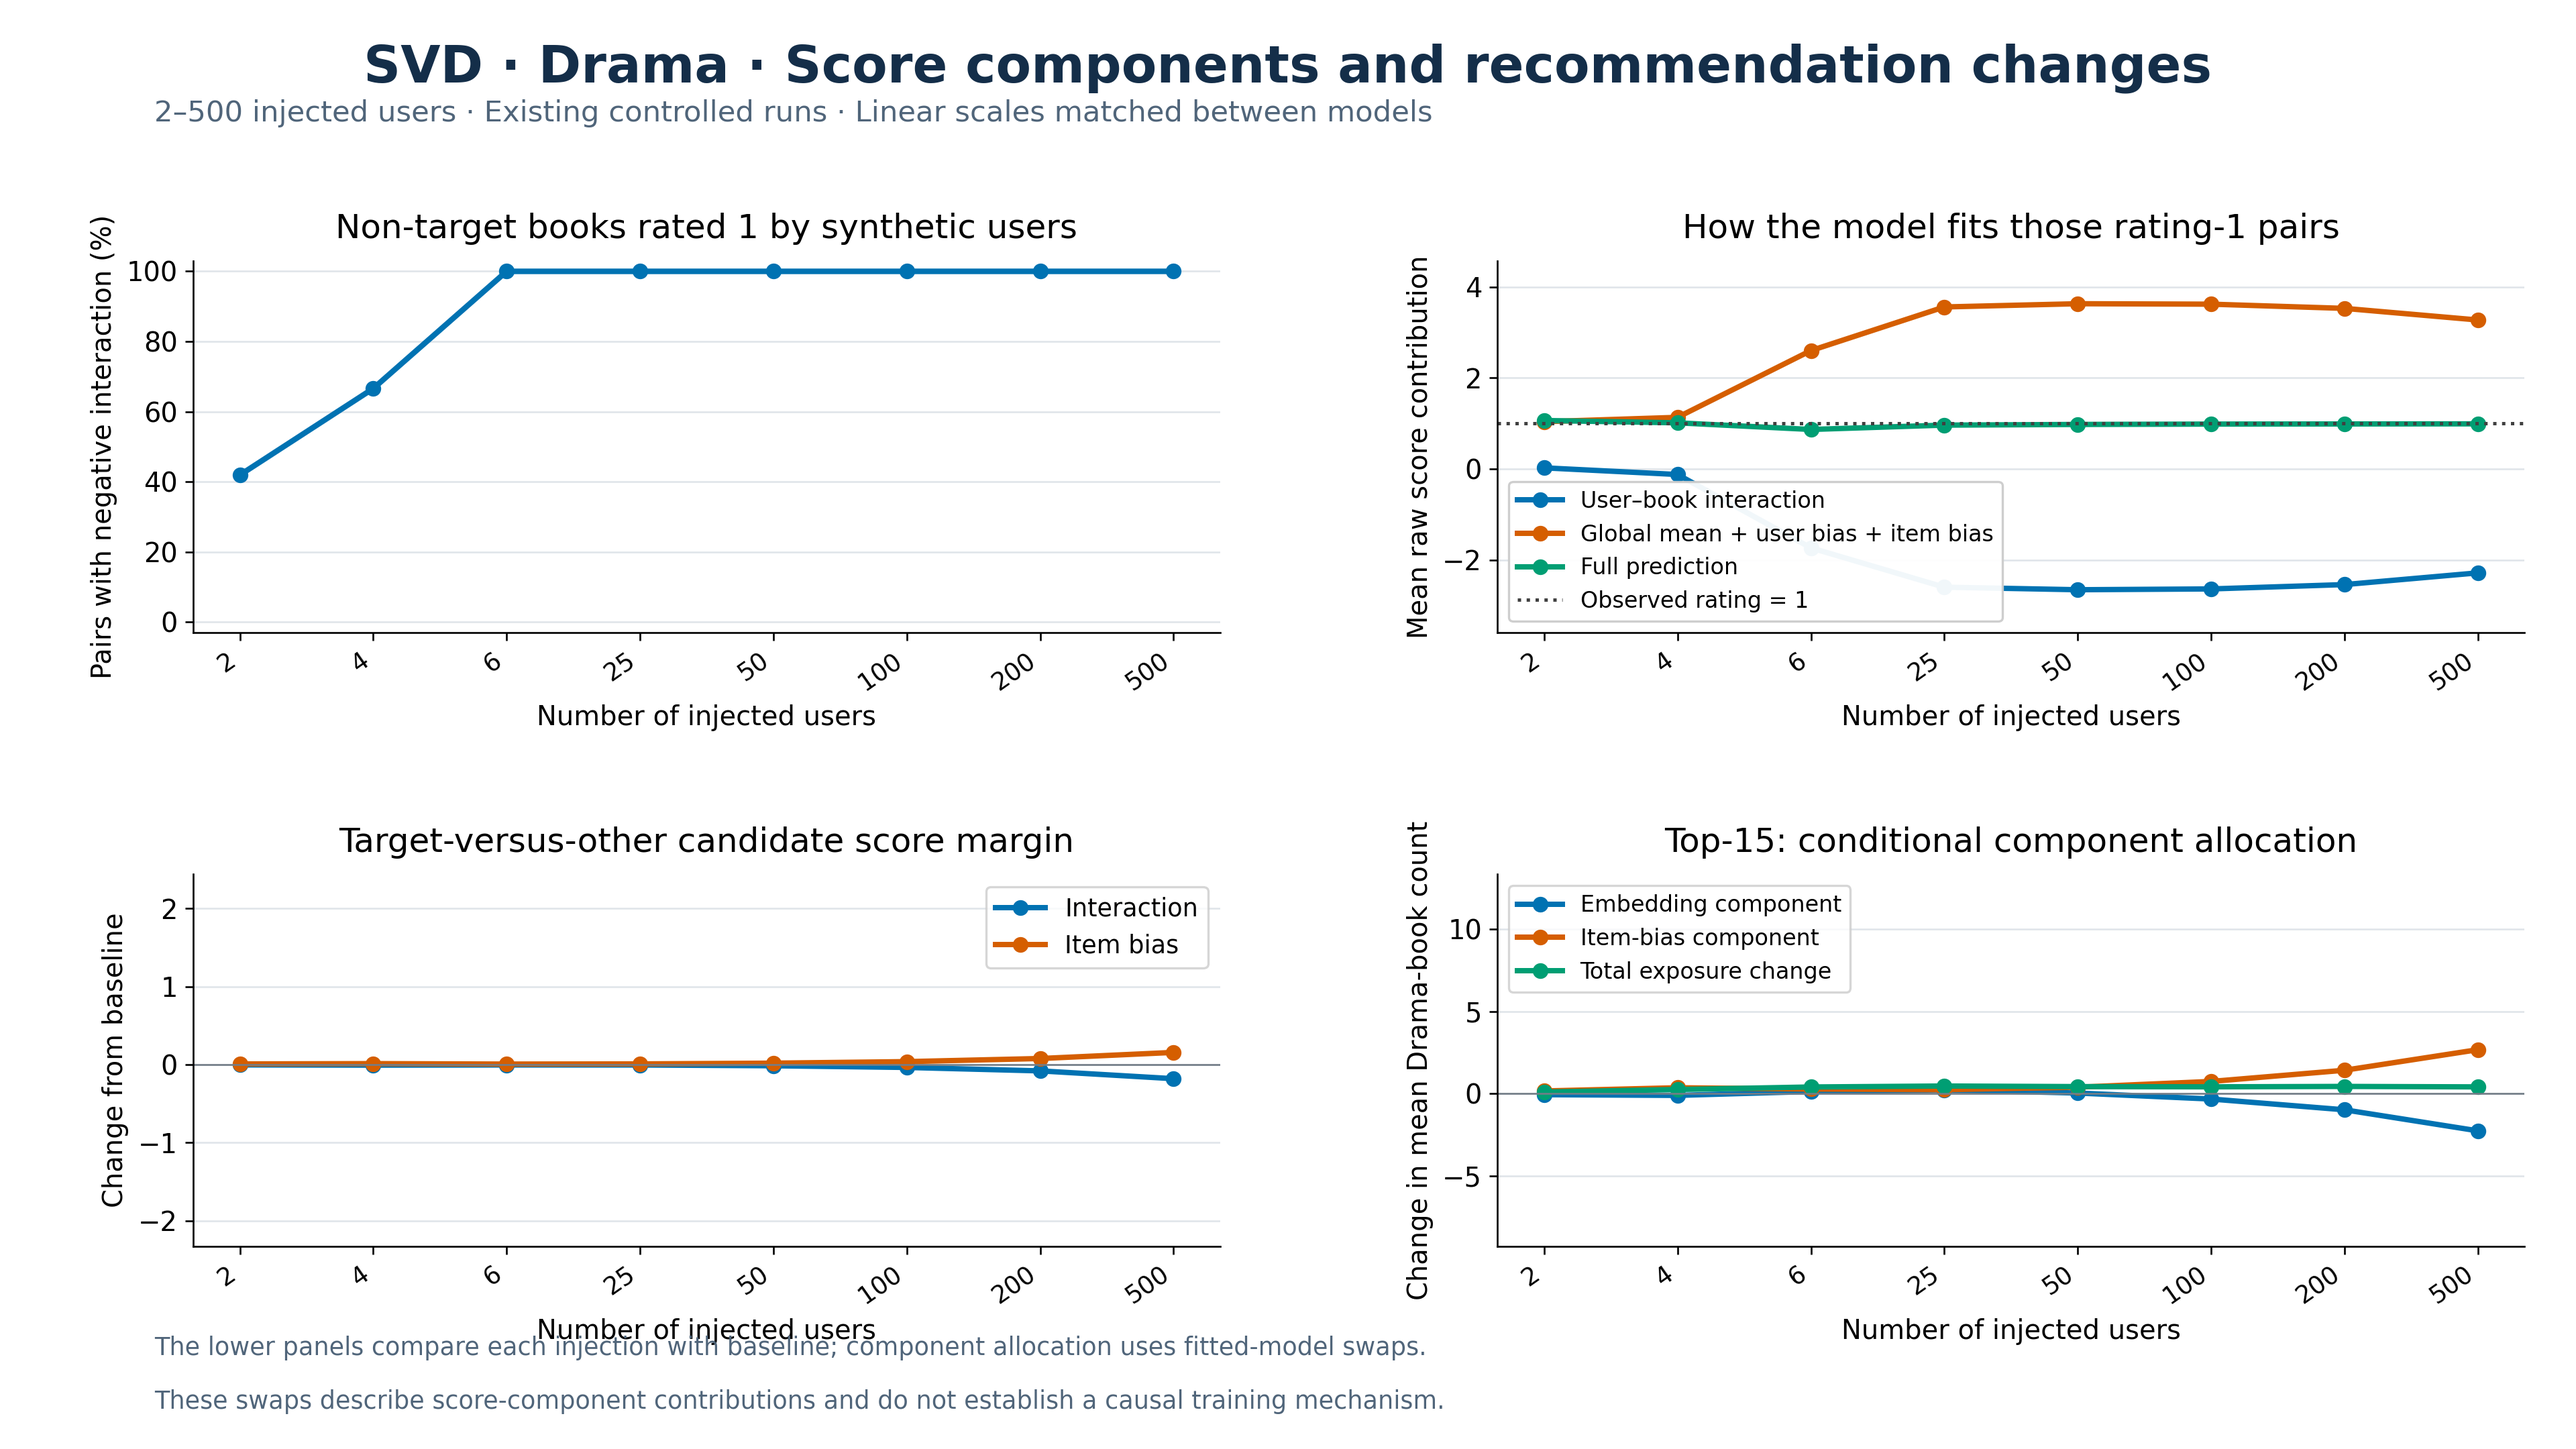
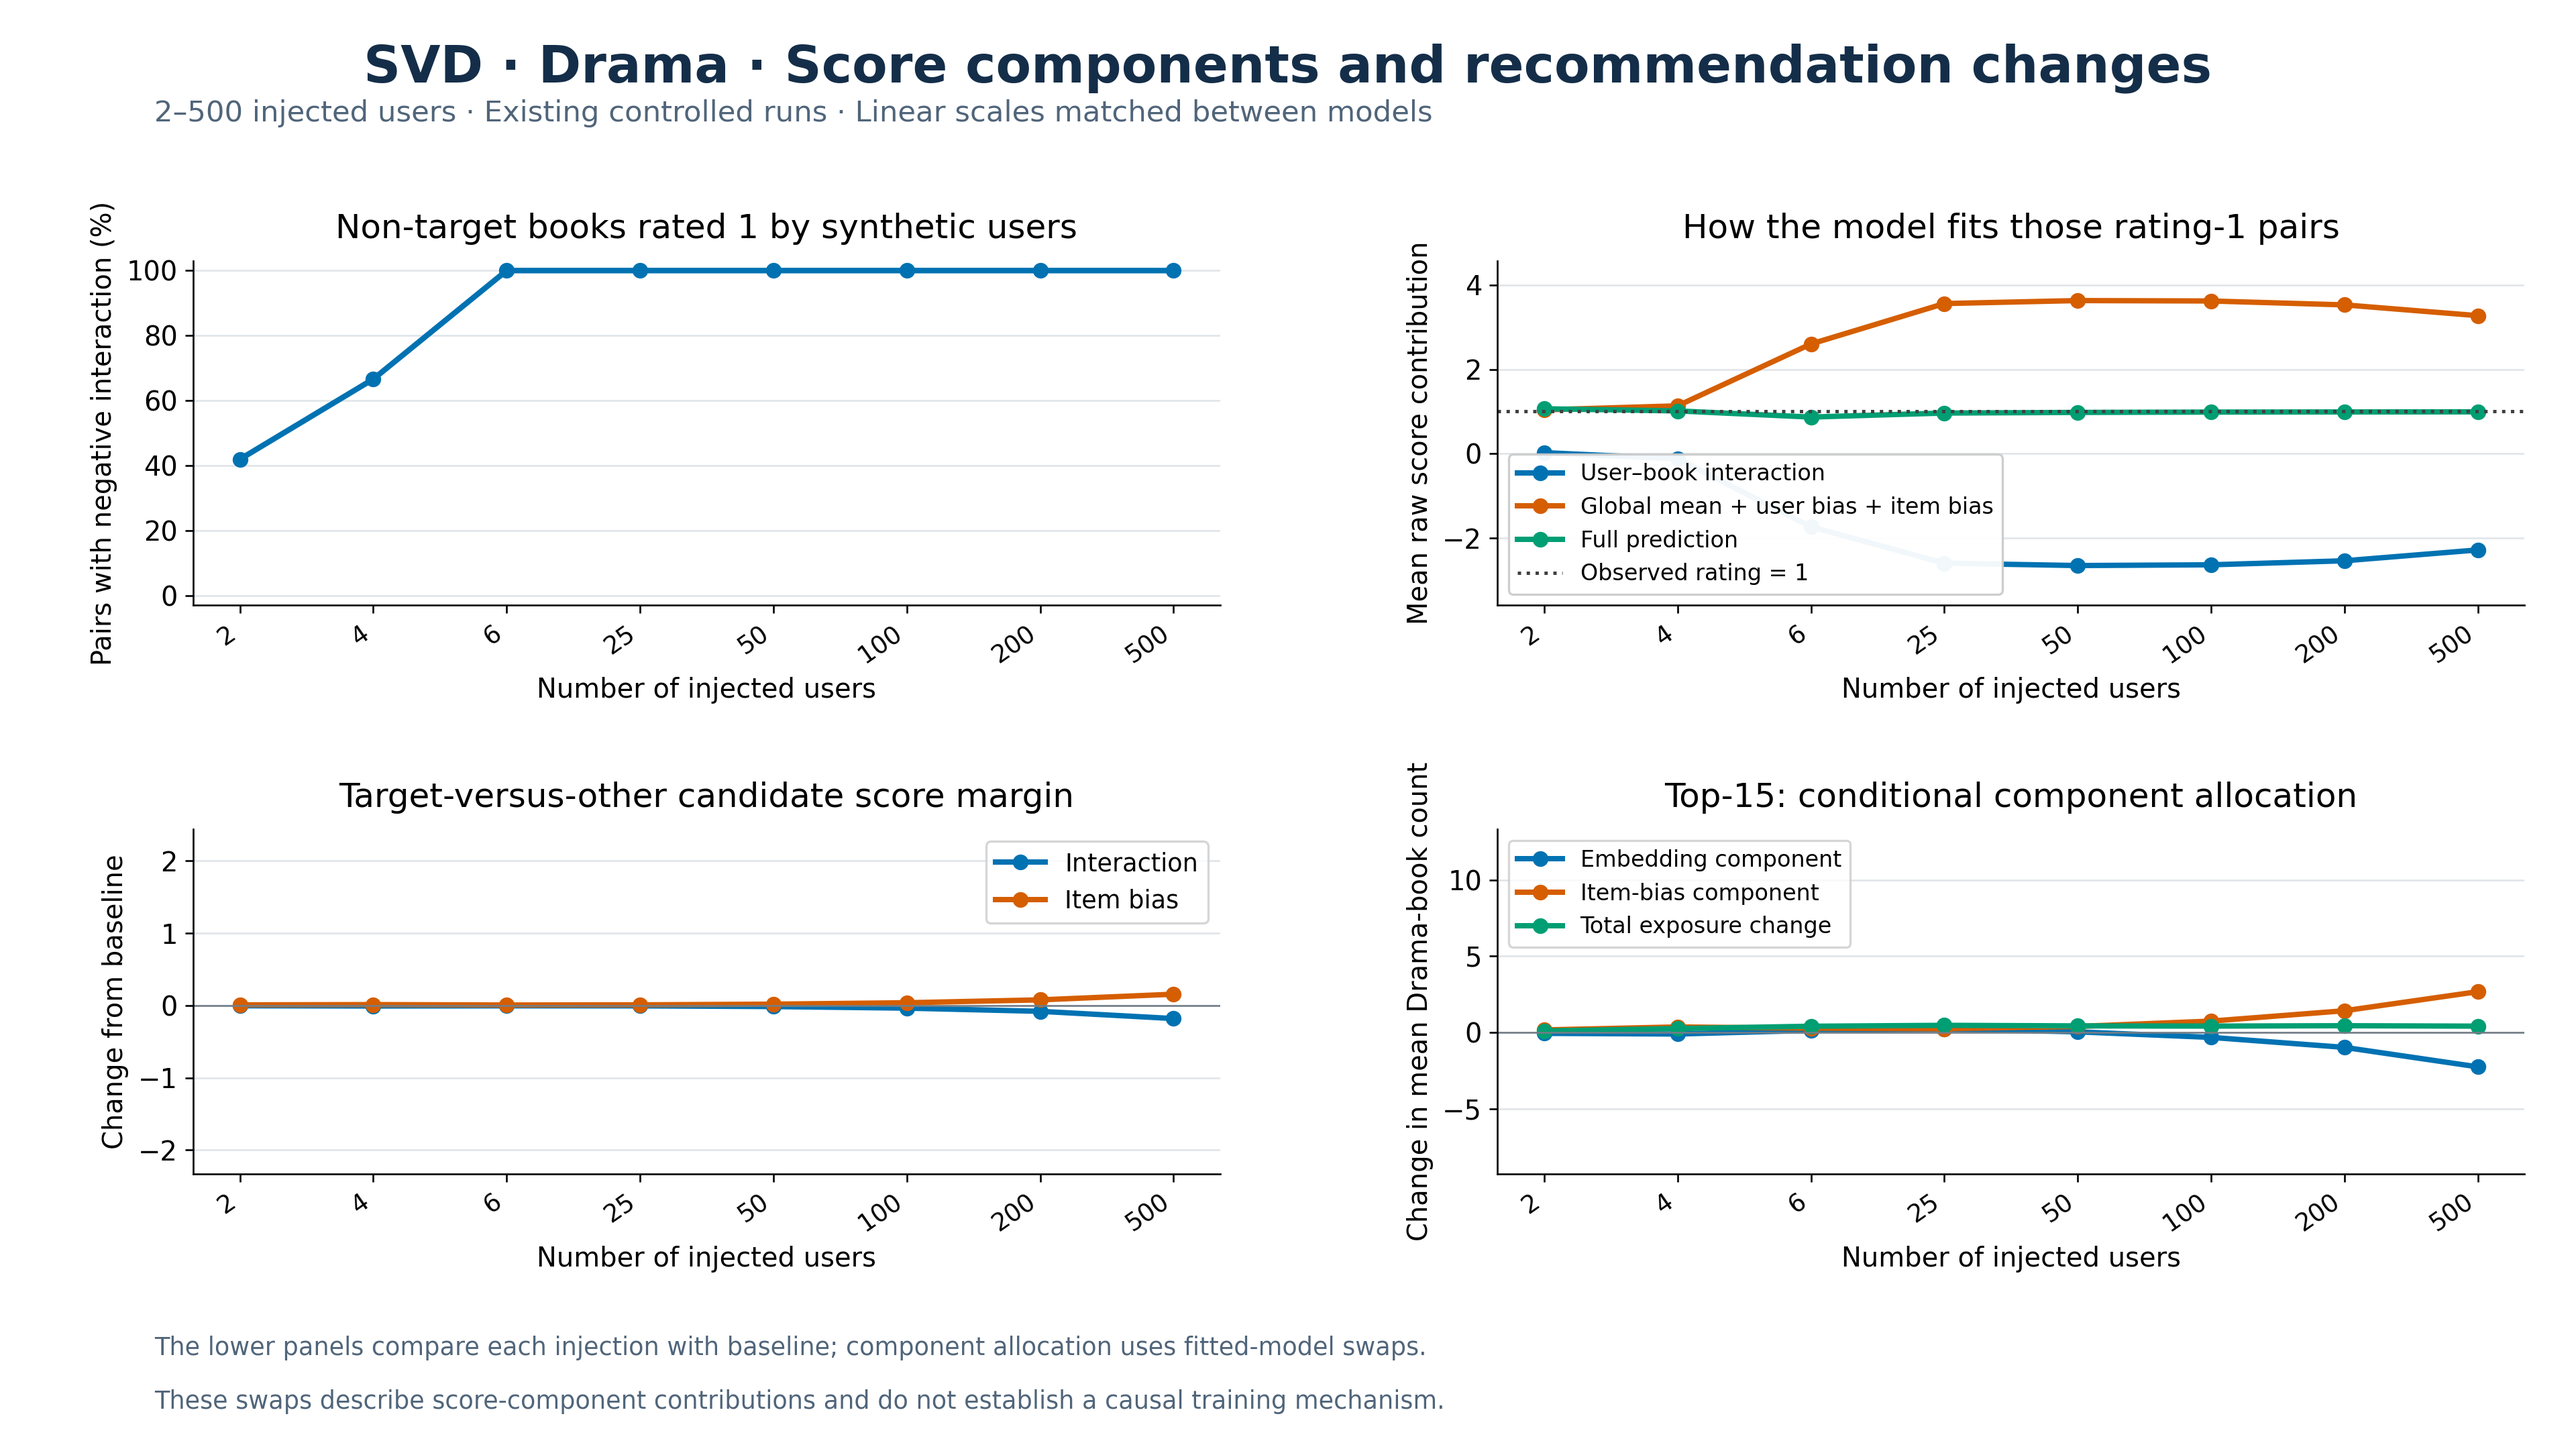
Add Thriller component panels through 500 and refine layout

diff --git a/Book/current/PerturbRec/svd_nmf/layer1/notebook/build_hypothesis_panels_up_to_500.py b/Book/current/PerturbRec/svd_nmf/layer1/notebook/build_hypothesis_panels_up_to_500.py
@@ -1,5 +1,5 @@
 #!/usr/bin/env python3
-"""Render Drama score-component panels for both models, using existing tables."""
+"""Render Drama/Thriller score-component panels for both models, using existing tables."""
 from pathlib import Path
 import numpy as np,pandas as pd
 import matplotlib
@@ -7,6 +7,7 @@ matplotlib.use('Agg')
 import matplotlib.pyplot as plt
 ROOT=Path('/home/moshtasa/Research/phd-recsys/Book/current/PerturbRec/svd_nmf/layer1')
 SRC=ROOT/'result/reviewer_hypothesis';OUT=ROOT/'result/final_results'
+GENRE='Drama'
 COUNTS=[2,4,6,25,50,100,200,500]
 COLORS={'interaction':'#0072B2','bias':'#D55E00','prediction':'#009E73'}
 plt.rcParams.update({'font.family':'DejaVu Sans','font.size':12,'axes.spines.top':False,'axes.spines.right':False})
@@ -14,7 +15,7 @@ plt.rcParams.update({'font.family':'DejaVu Sans','font.size':12,'axes.spines.top
 def main():
  data={}
  for model in ('NMF','SVD'):
-  p=SRC/model/'Drama'
+  p=SRC/model/GENRE
   fake=pd.read_csv(p/'synthetic_score_components.csv');fake=fake[(fake.pair_group=='non_target')&fake.n_fake.isin(COUNTS)].sort_values('n_fake')
   margin=pd.read_csv(p/'candidate_margins.csv');margin=margin[margin.n_fake.isin(COUNTS)].sort_values('n_fake')
   rec=pd.read_csv(p/'recommendation_component_swaps.csv');rec=rec[(rec.k==15)&rec.n_fake.isin(COUNTS)].sort_values('n_fake')
@@ -35,7 +36,7 @@ def main():
   ax=axes[0,1]
   for col,label,color in [('mean_interaction','User–book interaction',COLORS['interaction']),('mean_offset','Global mean + user bias + item bias',COLORS['bias']),('mean_prediction','Full prediction',COLORS['prediction'])]:ax.plot(x,fake[col],'o-',lw=2.4,label=label,color=color)
   ax.axhline(1,color='#404040',ls=':',lw=1.5,label='Observed rating = 1')
-  ax.set_title('How the model fits those rating-1 pairs',fontsize=15,pad=10);ax.set_ylabel('Mean raw score contribution');ax.set_ylim(*scorelim);ax.legend(fontsize=10,loc='lower left',framealpha=.95)
+  ax.set_title('How the model fits those rating-1 pairs',fontsize=15,pad=10);ax.set_ylabel('Mean raw score contribution');ax.set_ylim(*scorelim);ax.legend(fontsize=10,loc='best',framealpha=.95)
   ax=axes[1,0]
   for col,label,color in [('delta_interaction_margin','Interaction',COLORS['interaction']),('delta_bi_margin','Item bias',COLORS['bias'])]:ax.plot(x,margin[col],'o-',lw=2.4,label=label,color=color)
   ax.axhline(0,color='#737D87',lw=.8);ax.set_title('Target-versus-other candidate score margin',fontsize=15,pad=10)
@@ -43,15 +44,16 @@ def main():
   ax=axes[1,1]
   for col,label,color in [('embedding_swap_allocation','Embedding component',COLORS['interaction']),('item_bias_swap_allocation','Item-bias component',COLORS['bias']),('delta_count','Total exposure change',COLORS['prediction'])]:ax.plot(x,rec[col],'o-',lw=2.4,label=label,color=color)
   ax.axhline(0,color='#737D87',lw=.8);ax.set_title('Top-15: conditional component allocation',fontsize=15,pad=10)
-  ax.set_ylabel('Change in mean Drama-book count');ax.set_ylim(*reclim);ax.legend(fontsize=10,loc='upper left')
+  ax.set_ylabel(f'Change in mean {GENRE}-book count');ax.set_ylim(*reclim);ax.legend(fontsize=10,loc='upper left')
   for ax in axes.flat:
    ax.set_xticks(x,[str(n) for n in COUNTS],rotation=35,ha='right',fontsize=11)
    ax.set_xlabel('Number of injected users',fontsize=12)
    ax.grid(axis='y',color='#E0E5EA',lw=.8);ax.set_axisbelow(True)
-  fig.suptitle(f'{model} · Drama · Score components and recommendation changes',fontsize=23,weight='bold',color='#142E49',y=.97)
+  fig.suptitle(f'{model} · {GENRE} · Score components and recommendation changes',fontsize=23,weight='bold',color='#142E49',y=.97)
   fig.text(.06,.916,'2–500 injected users · Existing controlled runs · Linear scales matched between models',fontsize=13,color='#50657A')
-  fig.subplots_adjust(left=.075,right=.98,bottom=.14,top=.82,hspace=.65,wspace=.27)
+  fig.subplots_adjust(left=.075,right=.98,bottom=.19,top=.82,hspace=.65,wspace=.27)
   fig.text(.06,.065,'The lower panels compare each injection with baseline; component allocation uses fitted-model swaps.',fontsize=11,color='#50657A')
   fig.text(.06,.028,'These swaps describe score-component contributions and do not establish a causal training mechanism.',fontsize=11,color='#50657A')
-  path=OUT/f'{model}_Drama_reviewer_hypothesis_4panel.png';fig.savefig(path,dpi=240,facecolor='white');plt.close(fig);print('SAVED',path,flush=True)
-if __name__=='__main__':main()
+  path=OUT/f'{model}_{GENRE}_reviewer_hypothesis_4panel.png';fig.savefig(path,dpi=240,facecolor='white');plt.close(fig);print('SAVED',path,flush=True)
+if __name__=='__main__':
+ for GENRE in ('Drama','Thriller'):main()
